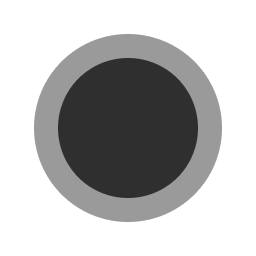
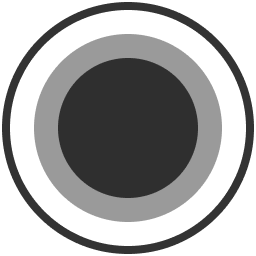
feat: argon hitcircle / slider head differentiating

Changed region(s): [[0.0, 0.0, 1.0, 1.0]]

diff --git a/src/Skinning/Argon/ArgonHitCircle.ts b/src/Skinning/Argon/ArgonHitCircle.ts
@@ -4,6 +4,7 @@ import Easings from "@/UI/Easings";
 import type Skin from "../Skin";
 import { BLANK_TEXTURE } from "../Skin";
 import { Easing } from "osu-classes";
+import * as d3 from "d3";
 
 export const refreshSprite = (drawable: DrawableHitCircle) => {
 	sharedRefreshSprite(drawable);
@@ -21,6 +22,7 @@ export const update = (drawable: DrawableHitCircle, time: number) => {
 		drawable.object.startTime - drawable.object.timePreempt;
 	const fadeOutDuration = 800;
 	const flashInDuration = 150;
+	const fadeColourDuration = 80;
 
 	if (
 		time < startFadeInTime ||
@@ -36,7 +38,7 @@ export const update = (drawable: DrawableHitCircle, time: number) => {
 	if (time < drawable.object.startTime) {
 		const baseTexture = drawable.skinManager
 			?.getCurrentSkin()
-			.getTexture("hitcircle", drawable.context.consume<Skin>("beatmapSkin"));
+			.getTexture("hitcircle");
 		if (baseTexture) drawable.hitCircleSprite.texture = baseTexture;
 
 		drawable.flashPiece.visible = false;
@@ -54,12 +56,11 @@ export const update = (drawable: DrawableHitCircle, time: number) => {
 	}
 
 	if (time >= drawable.object.startTime) {
+		drawable.hitCircleSprite.tint = drawable.color;
+
 		const flashTexture = drawable.skinManager
 			?.getCurrentSkin()
-			.getTexture(
-				"hitcircleflash",
-				drawable.context.consume<Skin>("beatmapSkin"),
-			);
+			.getTexture("hitcircleflash");
 		if (flashTexture) drawable.hitCircleSprite.texture = flashTexture;
 
 		drawable.flashPiece.visible = true;
@@ -69,9 +70,13 @@ export const update = (drawable: DrawableHitCircle, time: number) => {
 			1,
 			Math.max(0, (time - drawable.object.startTime) / fadeOutDuration),
 		);
+		const fadeProgress = Math.min(
+			1,
+			Math.max(0, (time - drawable.object.startTime) / fadeColourDuration),
+		);
 		const flashOpacity = Math.min(
 			1,
-			Math.max(0, (time - drawable.object.startTime) / flashInDuration),
+			Math.max(0, (time - (drawable.object.startTime + fadeColourDuration)) / flashInDuration),
 		);
 		const flashPieceOpacity =
 			2 *
@@ -88,6 +93,16 @@ export const update = (drawable: DrawableHitCircle, time: number) => {
 			Math.max(0, (time - drawable.object.startTime) / 400),
 		);
 
+		const color = d3.color(drawable.color as string);
+		const white = d3.color("white");
+
+		if (color && white) {
+			const interpolator = d3.interpolateRgb(color, white);
+			const interpolated = interpolator(fadeProgress);
+
+			drawable.hitCircleSprite.tint = interpolated;
+		}
+
 		drawable.container.alpha = 1 - Easings.OutQuad(opacity);
 
 		drawable.hitCircleOverlay.alpha = 0.5 * (1 - Easings.OutQuad(opacity));
@@ -98,7 +113,7 @@ export const update = (drawable: DrawableHitCircle, time: number) => {
 			flashPieceOpacity < 0
 				? Easings.OutQuint(1 - Math.abs(flashPieceOpacity))
 				: 1 - Easings.OutQuint(flashPieceOpacity);
-		drawable.flashPiece.scale.set(1.2 - 0.2 * Easing.outElasticHalf(scale));
+		drawable.flashPiece.scale.set(1.0 - 0.2 * Easing.outElasticHalf(scale));
 
 		return;
 	}

diff --git a/src/BeatmapSet/Beatmap/HitObjects/DrawableSliderHead.ts b/src/BeatmapSet/Beatmap/HitObjects/DrawableSliderHead.ts
@@ -20,9 +20,12 @@ import type Skin from "@/Skinning/Skin";
 import type TimelineHitCircle from "../Timeline/TimelineHitCircle";
 import type SkinningConfig from "@/Config/SkinningConfig";
 import type DrawableSlider from "./DrawableSlider";
+import { update as argonUpdate } from "@/Skinning/Argon/ArgonSliderHead";
 
 export default class DrawableSliderHead extends DrawableHitCircle {
 	hitSound?: HitSample;
+
+	headUpdateFn: ((_: DrawableSliderHead, __: number) => void) | null = null;
 
 	constructor(
 		public object: SliderHead,
@@ -57,17 +60,47 @@ export default class DrawableSliderHead extends DrawableHitCircle {
 		const skin = this.skinManager?.getCurrentSkin();
 		if (!skin) return;
 
-		const hitCircle = skin.getTexture("sliderstartcircle", this.context.consume<Skin>("beatmapSkin")) ?? skin.getTexture("hitcircle", this.context.consume<Skin>("beatmapSkin"));
-		const hitCircleOverlay = skin.getTexture("sliderstartcircleoverlay") ?? skin.getTexture("hitcircleoverlay", this.context.consume<Skin>("beatmapSkin"));
+		const sliderStartCircle = skin.getTexture(
+			"sliderstartcircle",
+			this.context.consume<Skin>("beatmapSkin"),
+		);
+
+		const sliderStartCircleOverlay = skin.getTexture(
+			"sliderstartcircleoverlay",
+			this.context.consume<Skin>("beatmapSkin"),
+		);
+
+		const hitCircle =
+			sliderStartCircle ??
+			skin.getTexture("hitcircle", this.context.consume<Skin>("beatmapSkin"));
+		const hitCircleOverlay = sliderStartCircle
+			? (sliderStartCircleOverlay ??
+				skin.getTexture(
+					"hitcircleoverlay",
+					this.context.consume<Skin>("beatmapSkin"),
+				))
+			: skin.getTexture(
+					"hitcircleoverlay",
+					this.context.consume<Skin>("beatmapSkin"),
+				);
 
 		if (hitCircle) this.hitCircleSprite.texture = hitCircle;
 		if (hitCircleOverlay) this.hitCircleOverlay.texture = hitCircleOverlay;
 
-		const color = this.context.consume<DrawableSlider>("slider")?.getColor(skin) ?? 0xffffff;
+		this.headUpdateFn = skin.config.General.Argon ? argonUpdate : null;
+
+		const color =
+			this.context.consume<DrawableSlider>("slider")?.getColor(skin) ??
+			0xffffff;
 		this.hitCircleSprite.tint = color;
 		this.flashPiece.tint = color;
 		this.color = color;
 
 		this.timelineObject?.refreshSprite();
+	}
+
+	update(time: number) {
+		super.update(time);
+		this.headUpdateFn?.(this, time);
 	}
 }

diff --git a/src/BeatmapSet/SampleManager.ts b/src/BeatmapSet/SampleManager.ts
@@ -25,28 +25,21 @@ export default class SampleManager {
 				if (!resource) return;
 
 				let audioBuffer: AudioBuffer;
+
 				try {
-					audioBuffer = await getFileAudioBuffer(resource, this.audioContext);
+					audioBuffer = await this.audioContext.decodeAudioData(
+						await resource.arrayBuffer(),
+					);
 				} catch (e) {
-					try {
-						audioBuffer = await getFileAudioBuffer(
-							resource,
-							this.audioContext,
-							{
-								native: true,
-							},
-						);
-					} catch (e) {
-						// console.warn(
-						// 	`Cannot decode ${filename}. Default to silent sample.`,
-						// );
-						audioBuffer = this.audioContext.createBuffer(
-							1,
-							1,
-							this.audioContext.sampleRate,
-						);
-						return;
-					}
+					// console.warn(
+					// 	`Cannot decode ${filename}. Default to silent sample.`,
+					// );
+					audioBuffer = this.audioContext.createBuffer(
+						1,
+						1,
+						this.audioContext.sampleRate,
+					);
+					return;
 				}
 
 				const key = filename.split(".").slice(0, -1).join(".");
@@ -63,7 +56,15 @@ export default class SampleManager {
 		const currentSkin = skinManager?.currentSkin;
 		const defaultSkin = skinManager?.defaultSkin;
 
-		if (idx === 0) return currentSkin?.getHitsound(fallbackKey) ?? defaultSkin?.getHitsound(fallbackKey);
-		return this.map.get(key) ?? currentSkin?.getHitsound(fallbackKey) ?? defaultSkin?.getHitsound(fallbackKey);
+		if (idx === 0)
+			return (
+				currentSkin?.getHitsound(fallbackKey) ??
+				defaultSkin?.getHitsound(fallbackKey)
+			);
+		return (
+			this.map.get(key) ??
+			currentSkin?.getHitsound(fallbackKey) ??
+			defaultSkin?.getHitsound(fallbackKey)
+		);
 	}
 }

diff --git a/src/Skinning/Skin.ts b/src/Skinning/Skin.ts
@@ -93,7 +93,7 @@ export default class Skin {
 			},
 		};
 
-		console.log(this.config)
+		console.log(this.config);
 
 		this.colorsLength = Object.keys(this.config.Colours).filter((key) =>
 			/Combo[1-8]/g.test(key),
@@ -119,7 +119,7 @@ export default class Skin {
 			"sliderfollowcircle",
 			"sliderscorepoint",
 			"reversearrow",
-			"repeat-edge-piece"
+			"repeat-edge-piece",
 		];
 
 		await Promise.all(
@@ -176,9 +176,9 @@ export default class Skin {
 
 				let audioBuffer: AudioBuffer;
 				try {
-					audioBuffer = await getFileAudioBuffer(resource, audioContext, {
-						native: true,
-					});
+					audioBuffer = await audioContext.decodeAudioData(
+						await resource.arrayBuffer(),
+					);
 				} catch (e) {
 					// console.warn(`Cannot decode ${filename}. Default to silent sample.`);
 					audioBuffer = audioContext.createBuffer(
@@ -197,7 +197,7 @@ export default class Skin {
 		const disableBeatmapSkin =
 			inject<SkinningConfig>("config/skinning")?.disableBeatmapSkin;
 
-		if (disableBeatmapSkin)
+		if (disableBeatmapSkin || this.config.General.Argon)
 			return (
 				this.textures.get(filename) ??
 				inject<SkinManager>("skinManager")?.defaultSkin?.textures.get(filename)

diff --git a/src/BeatmapSet/Beatmap/HitObjects/DrawableSlider.ts b/src/BeatmapSet/Beatmap/HitObjects/DrawableSlider.ts
@@ -97,7 +97,7 @@ export default class DrawableSlider
 	});
 
 	private drawableCircles: DrawableHitObject[] = [];
-	private body: Mesh<Geometry, Shader> = new Mesh({
+	public body: Mesh<Geometry, Shader> = new Mesh({
 		geometry: this._geometry,
 		shader: this._shader,
 		filters: [
@@ -333,11 +333,23 @@ export default class DrawableSlider
 	}
 
 	updateGeometry(progressHead = 0, progressTail = 0, scale = 1) {
+		let head = progressHead;
+		let tail = progressTail;
+
+		if (progressHead === progressTail) {
+			const checkDistance = 0.1 / this.object.path.distance;
+			head = Math.min(1 - checkDistance, progressHead);
+			tail = Math.min(1, progressHead + checkDistance);
+		}
+
 		const path = calculateSliderProgress(
 			this.object.path,
-			progressHead,
-			progressTail,
+			head,
+			tail,
 		);
+
+		if (!path.length) return;
+
 		const { aPosition, indexBuffer } = createGeometry(
 			path,
 			this.object.radius * (236 / 256) * scale,

diff --git a/src/Skinning/Shared/Slider.ts b/src/Skinning/Shared/Slider.ts
@@ -1,9 +1,11 @@
 import type DrawableSlider from "@/BeatmapSet/Beatmap/HitObjects/DrawableSlider";
+import { Clamp } from "@/utils";
 
 export const sharedUpdate = (drawable: DrawableSlider, time: number) => {
 	const startFadeInTime =
 		drawable.object.startTime - drawable.object.timePreempt;
-	const fadeOutDuration = 200;
+	const fadeOutDuration = 240;
+	const bodyFadeOutDuration = 40;
 
 	if (
 		time < startFadeInTime ||
@@ -59,11 +61,7 @@ export const sharedUpdate = (drawable: DrawableSlider, time: number) => {
 
 	if (time >= drawable.object.endTime) {
 		const opacity =
-			1 -
-			Math.min(
-				1,
-				Math.max(0, (time - drawable.object.endTime) / fadeOutDuration),
-			);
+			1 - Clamp((time - drawable.object.endTime) / bodyFadeOutDuration);
 		drawable._alphaFilter.alpha = opacity;
 		return { start, end };
 	}

diff --git a/src/Skinning/Argon/ArgonSliderHead.ts b/src/Skinning/Argon/ArgonSliderHead.ts
@@ -1,0 +1,19 @@
+import type DrawableSliderHead from "@/BeatmapSet/Beatmap/HitObjects/DrawableSliderHead";
+
+export const update = (drawable: DrawableSliderHead, time: number) => {
+	if (time < drawable.object.startTime) {
+		const skin = drawable.skinManager?.getCurrentSkin();
+		const sliderStartCircle = skin?.getTexture("sliderstartcircle");
+		const hitCircle = skin?.getTexture("hitcircle");
+
+		const baseTexture = sliderStartCircle ?? hitCircle;
+		if (baseTexture) drawable.hitCircleSprite.texture = baseTexture;
+	}
+
+	if (time >= drawable.object.startTime) {
+		const flashTexture = drawable.skinManager
+			?.getCurrentSkin()
+			.getTexture("hitcircleflash");
+		if (flashTexture) drawable.hitCircleSprite.texture = flashTexture;
+	}
+};

diff --git a/src/BeatmapSet/Beatmap/HitObjects/DrawableFollowPoints.ts b/src/BeatmapSet/Beatmap/HitObjects/DrawableFollowPoints.ts
@@ -69,7 +69,12 @@ export default class DrawableFollowPoints extends SkinnableElement {
 		this.container.addChild(...this.sprites);
 
 		this.skinEventCallback = this.skinManager?.addSkinChangeListener((skin) => {
-			const followpoint = skin.getTexture("followpoint", this.context.consume<Skin>("beatmapSkin"));
+			const followpoint = skin.getTexture(
+				"followpoint",
+				this.context.consume<Skin>("beatmapSkin"),
+			);
+
+			this.container.blendMode = skin.config.General.Argon ? "add" : "normal";
 
 			if (!followpoint) return;
 			for (const sprite of this.sprites) {

diff --git a/src/BeatmapSet/Beatmap/HitObjects/DrawableHitCircle.ts b/src/BeatmapSet/Beatmap/HitObjects/DrawableHitCircle.ts
@@ -60,7 +60,9 @@ export default class DrawableHitCircle
 
 		this.flashPiece.anchor.set(0.5);
 		this.flashPiece.blendMode = "add";
-		this.flashPiece.filters = [new BlurFilter({ kernelSize: 9, strength: 10, quality: 4 })];
+		this.flashPiece.filters = [
+			new BlurFilter({ kernelSize: 9, strength: 1, quality: 5 }),
+		];
 
 		this.hitCircleSprite.anchor.set(0.5);
 		this.hitCircleSprite.alpha = 0.9;

diff --git a/src/Initiator.ts b/src/Initiator.ts
@@ -31,6 +31,7 @@ export async function getArgon() {
 		"reversearrow@2x.png",
 		"repeat-edge-piece@2x.png",
 		"sliderendcircle.png",
+		"sliderstartcircle@2x.png",
 		"sliderscorepoint@2x.png",
 		"skin.ini",
 	];
